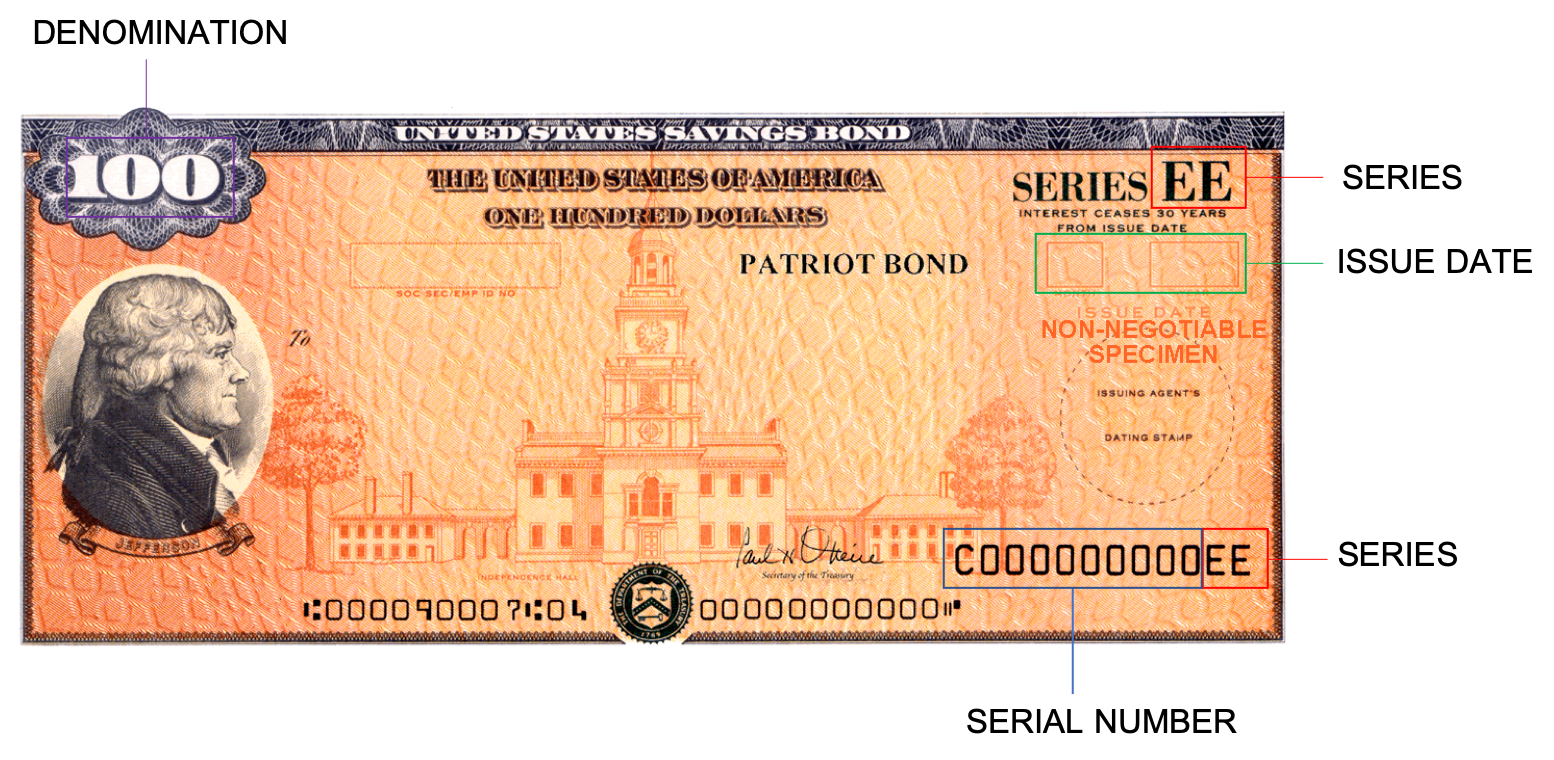
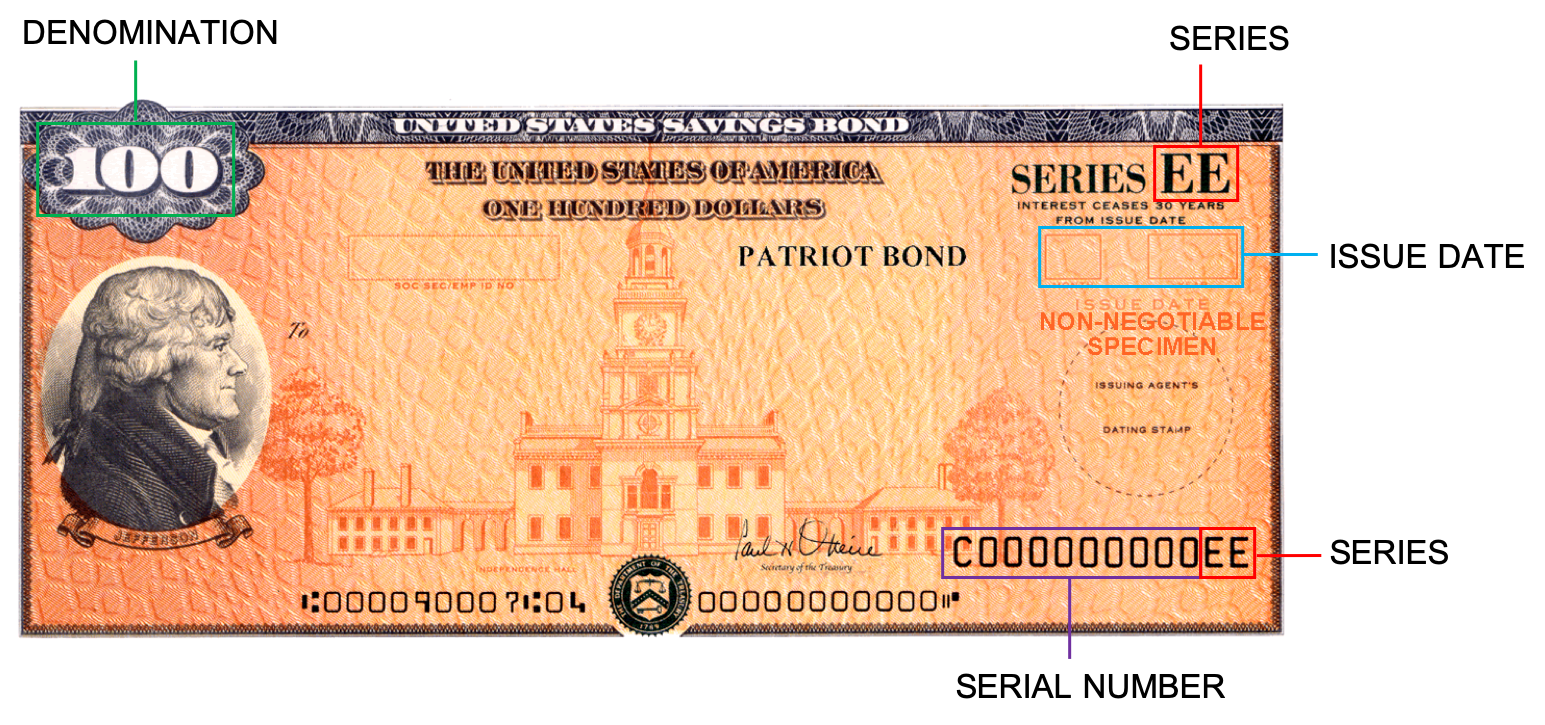
v1.0.1

diff --git a/src/components/instructions.jsx b/src/components/instructions.jsx
@@ -1,6 +1,5 @@
 import React, { Component } from 'react';
 import AdSense from 'react-adsense';
-import { Table } from 'react-bootstrap';
 import { CSVLink } from "react-csv";
 import excel from '../images/excel.png';
 
@@ -11,29 +10,29 @@ class Instructions extends Component {
         const exportData = [['Value as of (month)', 'Value as of (year)', 'Series', 'Denomination', 'Serial Number', 'Issue month', 'Issue Year']]
 
         const descriptions = [
-            [<a href="/bond_example">Series</a>, 'Bond type (ex. E, EE, I, Savings Note)'],
-            [<a href="/bond_example">Denomination</a>, 'Purchase price of your bond'],
-            [<a href="/bond_example">Serial Number</a>, 'Unique identifier of your bond'],
-            [<a href="/bond_example">Issue Month/Year</a>, 'Start date of when the bond was purchased'],
+            ['Series', 'Bond type (ex. E, EE, I, Savings Note)'],
+            ['Denomination', 'Face value of your bond'],
+            ['Serial Number', 'Unique identifier of your bond'],
+            ['Issue Month/Year', 'Start date of when the bond was purchased'],
             ['Value as of Month/Year', 'End date of which to value your bonds']
         ]
 
-        return <div style={{ width: '50%', margin: 'auto', marginTop: '2em' }}>
+        return <div style={{ width: '60%', margin: 'auto', marginTop: '2em' }}>
             <ol>
-                <li>First, you’ll need a .csv file containing a list of your bonds with the following specifications:</li>
-                <Table style={{ marginTop: '1em' }}>
-                    <tbody>
-                        {descriptions.map((description) => (
-                            <tr key={description[0] + description[1]}>
-                                <td key={description[0]} style={{ border: 'none', fontWeight: '500', width: '30%', padding: '.25em', fontSize: '.9em' }}>{description[0]}</td>
-                                <td key={description[1]} style={{ border: 'none', padding: '.25em', fontSize: '.9em' }}>{description[1]}</td>
-                            </tr>
-                        ))}
-                    </tbody>
-                </Table>
+                <li style={{ textAlign: 'justify' }}>First, you’ll need a .csv file containing a list of your bonds with the following specifications and formatted in-line with the example template provided below:</li>
+                <p style={{ marginTop: '1em' }}>For a visual aid in finding these components, please visit our <a href="/bond_example" style={{ fontSize: '.95em', fontWeight: '500' }}>BOND EXAMPLE</a> page</p>
+                <ul style={{ margin: '.5em 0' }}>
+                    {descriptions.map((description) => (
+                        <li key={description[0] + description[1]}>
+                            <div key={description[0]} style={{ float: 'left', width: '12.5em', fontWeight: '500', fontSize: '.9em' }}>{description[0]}</div>
+                            <div key={description[1]} style={{ float: 'left', fontSize: '.9em' }}>{description[1]}</div>
+                        </li>
+                    ))}
+                </ul>
                 <CSVLink data={exportData} style={{ float: 'left', width: '100%', textAlign: 'right' }}>[Download CSV Template]</CSVLink>
-                <img src={excel} alt="spreadsheet example" style={{ height: '100%', width: '100%', margin: '.5em 0 2em 0' }}></img>
+                <img src={excel} alt="spreadsheet example" style={{ height: '100%', width: '100%', margin: '.5em 0 1.5em 0' }}></img>
                 <li>Then, navigate to the <a href="/valuations" style={{ fontSize: '.95em', fontWeight: '500' }}>VALUATIONS</a> page where you'll attach this csv to value your bonds.</li>
+                <li style={{ marginTop: '1em', textAlign: 'justify' }}>If formatted correctly, summary data for your bonds should be available shortly after attaching your csv.</li>
             </ol>
             <AdSense.Google
                 client='ca-pub-7292810486004926'

diff --git a/src/components/nav.jsx b/src/components/nav.jsx
@@ -1,6 +1,7 @@
 import React, { Component } from 'react';
 import { Navbar, Nav } from 'react-bootstrap';
 import { BrowserRouter, Switch, Route } from 'react-router-dom';
+import Home from './index';
 import Instruction from './instructions';
 import Valuation from './valuations';
 import BondExample from './bond_example';
@@ -21,15 +22,15 @@ class Navigation extends Component {
                         src={logo}
                         width="30"
                         height="30"
-                        alt="TREASURY BOND PRICING TOOL"
+                        alt="SAVINGS BOND WIZARD"
                     /></Navbar.Brand>
-                    <Navbar.Brand>TREASURY BOND PRICING TOOL</Navbar.Brand>
+                    <Navbar.Brand>SAVINGS BOND WIZARD</Navbar.Brand>
                     <Nav.Link href="/instructions" style={{ fontSize: '14px', fontWeight: '500' }}>INSTRUCTIONS</Nav.Link>
                     <Nav.Link href="/bond_example" style={{ fontSize: '14px', fontWeight: '500' }}>BOND EXAMPLE</Nav.Link>
-                    <Nav.Link href="/valuations" style={{ fontSize: '14px', fontWeight: '500' }}>VALUATIONS</Nav.Link>
+                    <Nav.Link href="/valuations" style={{ fontSize: '14px', fontWeight: '500' }}>VALUATION</Nav.Link>
                 </Navbar>
                 <Switch>
-                    <Route exact path='/' component={Instruction} />
+                    <Route exact path='/' component={Home} />
                     <Route exact path='/instructions' component={Instruction} />
                     <Route exact path='/bond_example' component={BondExample} />
                     <Route exact path='/valuations' component={Valuation} />

diff --git a/src/components/bond_example.jsx b/src/components/bond_example.jsx
@@ -5,8 +5,8 @@ class BondExample extends Component {
     state = {}
     render() {
         return (
-            <div style={{ width: '60%', margin: 'auto', paddingTop: '5em' }}>
-                <img src={bond} alt="treasury bond" style={{ height: '100%', width: '100%' }}></img>
+            <div style={{ width: '70%', margin: 'auto', paddingTop: '5em' }}>
+                <img src={bond} alt="savings bond" style={{ height: '100%', width: '100%', marginBottom: '2em' }}></img>
             </div>);
     }
 }

diff --git a/src/components/index.jsx b/src/components/index.jsx
@@ -1,0 +1,12 @@
+import React, { Component } from 'react';
+
+class Home extends Component {
+    state = {}
+    render() {
+        return (
+            <div></div>
+        );
+    }
+}
+
+export default Home;
